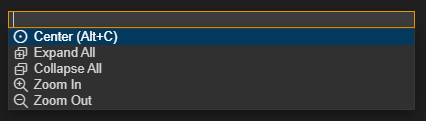
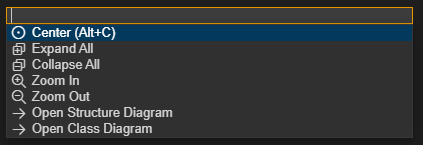
Doc updates for 0.0.6

diff --git a/docs-sources/building/transformation-configurations.md b/docs-sources/building/transformation-configurations.md
@@ -7,10 +7,12 @@ To create a new TC select a file in the workspace folder that contains the Art f
 
 ![](images/default-tc-name.png)
 
-A .tcjs file will be created with minimal contents. Specify the mandatory [targetFolder](#targetfolder) property and any other [properties](#properties) needed.
+A .tcjs file will be created with the minimal contents. Specify the mandatory [topCapsule](#topcapsule) property (if you are building an executable) and any other [properties](#properties) needed.
 
 ## Setting a Transformation Configuration as Active
-You can have more than one TC in your workspace, but at most one TC in each workspace folder can be **active**. Set a TC as active by right-clicking on it and perform the command **Set as Active**. An active TC is marked with a checkmark.
+You can have more than one TC in your workspace, and also multiple TCs in the same workspace folder, but at most one TC in each workspace folder can be **active**. {$product.name$} uses the active TC for knowing how to automatically generate C++ code from the Art files in the workspace folder.
+
+Set a TC as active by right-clicking on it and perform the command **Set as Active**. An active TC is marked with a checkmark.
 
 ![](images/active-tc.png)
 
@@ -35,7 +37,7 @@ You can edit a TC directly as a JavaScript file in the text editor. Features suc
 
 ![](images/tc-editor-validation.png)
 
-As an alternative to editing a TC as a JavaScript file {$product.name$} also provides a dedicated form-based editor which may be easier to use, especially until you are familiar with all TC properties that exist and what they mean.
+As an alternative to editing a TC as a JavaScript file {$product.name$} also provides a form-based editor which may be easier to use, especially until you are familiar with all TC properties that exist and what they mean.
 
 To open the form-based TC editor, right-click on a TC file and invoke the context menu command **Edit Properties (UI)**. 
 
@@ -53,7 +55,11 @@ Certain TC properties have default values. Such values are not stored in the TC 
 
 ![](images/tc-editor-default-value.png)
 
-You can freely choose if you want to edit TC files as text files or using the form-based TC editor, and you can even use both at the same time. The form-based TC editor is automatically updated when you save the TC file, and the TC file is automatically updated when a widget with a modified value loses focus. 
+You can tell which TC properties that have a custom (i.e. non-default) value set by looking at the color of the property name. Properties with custom values set have names shown in blue which are hyperlinks that will navigate to the value in the TC file. Such properties also have a "Delete" button which can be used for deleting the property value (i.e. to restore the property to use its default value).
+
+![](images/tc-with-value.png)
+
+You can freely choose if you want to edit TC files as text files or using the form-based TC editor, and you can even use both at the same time. The form-based TC editor is automatically updated as soon as you edit the TC file, and the TC file is automatically updated when a widget with a modified value loses focus. 
 
 ## Properties
 Below is an alphabetic list of all properties that can be used in a TC. Note that many TC properties have default values and you only need to specify a value for a TC property if its different from the default value.
@@ -71,7 +77,7 @@ Specifies which C++ compiler to use for compiling generated C++ code. The defaul
 This property may be used to insert a common comment block in the beginning of each generated file, typically a copyright text.
 
 ### cppCodeStandard
-Defines the C++ language standard to which generated code will conform. The default value for this property is `C++ 17`. Other valid values are `C++ 11`, `C++ 14` and `C++ 20`. If you need to compile generated code with a compiler that doesn't support C++ 11 you can set this preference to `Older than C++ 11`. However, you then cannot use the standard version of the TargetRTS since it uses C++ 11 constructs.
+Defines the C++ language standard to which generated code will conform. The default value for this property is `C++ 17`. Other valid values are `C++ 11`, `C++ 14` and `C++ 20`. If you need to compile generated code with a compiler that doesn't support C++ 11 you can set this preference to `Older than C++ 11`. However, you then cannot use the latest version of the TargetRTS since it uses C++ 11 constructs.
 
 ### linkArguments
 Specifies the arguments for the C++ linker used for linking object files and libraries into an executable. This property is only applicable for TCs that build executables.
@@ -92,14 +98,16 @@ Specifies which TargetRTS configuration to use. The TargetRTS location specified
 This property maps to a subfolder of the target folder where all generated files that are not source code will be placed. This includes for example makefiles and the files that are produced by these makefiles (typically binaries). The default value of this property is `default`.
 
 ### targetLocation
-When a TC is built all generated files (C++ code, make file, binaries etc) will be placed in a so called target folder. This property specifies the name of that folder. The target folder will be added as a workspace folder the first time the TC is built. You can choose any name that is a valid name of a folder, but it can be convenient to base the name on the workspace folder that contains the TC so that the target folder appears near it. For example, if the workspace folder that contains the TC is called "MyApp" you can use "MyApp_target" as the name of the target folder.
+When a TC is built all generated files (C++ code, make file, binaries etc) will be placed in a so called target folder. This property specifies the name and location of that folder. The target folder will be added as a workspace folder the first time the TC is built. You can choose any name that is a valid name of a folder, but it can be convenient to base the name on the workspace folder that contains the TC so that the target folder appears near it. For example, if the workspace folder that contains the TC is called "MyApp" you can use "MyApp_target" as the name of the target folder. In fact, if you don't specify a value for this property it will default to using the name of the TC and append "_target" to it.
 
-The path can be either absolute or relative. Relative paths are resolved against the folder that contains the TC. Use forward slashes as path separator.
-
-`targetLocation` is a mandatory TC property and it has no default value.
+The path can be either absolute or relative. Relative paths are resolved against the folder that contains the TC. Use forward slashes as path separator. 
 
 ### targetRTSLocation
-Specifies the location of the TargetRTS to use. The default value of this property is `${RSA_RT_HOME}/C++/TargetRTS` which points at the folder in the {$product.name$} installation where the TargetRTS C++ implementation resides.
+Specifies the location of the TargetRTS to use. If no value is set for this property the TargetRTS from the RTist in Code installation will be used. If you want to use another TargetRTS specify the full path to the `TargetRTS` folder (including that folder itself). Use forward slashes as path separator. For example:
+
+``` js
+tc.targetRTSLocation = "C:/git/rsarte-target-rts/rsa_rt/C++/TargetRTS";
+```
 
 ### topCapsule
 Specifies the capsule that should be automatically incarnated when the executable starts to run. Hence this property is only applicable for TCs that build executables, and for those TCs it's a mandatory property. The top capsule is the entry point of the realtime application.

diff --git a/docs-sources/working-with-art/diagrams.md b/docs-sources/working-with-art/diagrams.md
@@ -19,6 +19,8 @@ You can also open diagrams from the context menu of an Art file in the Explorer 
 
 The same prompting happens if you open a diagram from an Art file when the cursor position doesn't indicate which Art element to open the diagram for. All valid Art elements in the file will be listed and you can choose which one to open the diagram for.
 
+You can open multiple diagrams of the same kind in one go by selecting multiple Art files in the Explorer view, and then invoke a command for opening diagrams from the context menu. However, in this case only diagrams for the first element found in each file will be opened (i.e. in this case you will not be prompted in case a file contains multiple elements for which the selected kind of diagram could be opened).
+
 ## Navigating from Diagram to Art File
 If you double-click a symbol or a line in a diagram, the Art element that corresponds to that symbol or line will be highlighted in the Art file. Note that you need to double-click on the symbol or line itself, and not on a text label shown in the symbol or on the line. However, as an alternative you can instead hold down the ++ctrl++ key and then click on the text label. It will then become a hyperlink that navigates to the Art element that corresponds to that text label. You need to use this approach in case a symbol has multiple text labels each of which represent different Art elements. For example:
 
@@ -57,6 +59,8 @@ Many diagram commands mentioned above can be invoked using the keyboard. Press +
 
 ![](images/diagram-commands.png)
 
+In this pop-up menu you also find convenient commands for navigating to related diagrams. For example, from the state diagram of a capsule you can navigate to the structure and class diagrams of that same capsule.
+
 ### Diagram Appearance
 Certain properties on Art elements control how they will appear in a diagram. Currently it's possible to configure which color to use for elements of a state diagram. See the [color](../art-lang.md#color) property for more information.
 
@@ -92,3 +96,8 @@ You can rename an Art element shown in a diagram by double-clicking on the text 
 ![](images/diagram-rename.png)
 
 Note that this is a "rename refactoring" and all references to the renamed element will be updated too. 
+
+### Deleting Elements
+You can delete an Art element shown in a diagram by selecting the symbol or line that represents the element and then press the ++"Delete"++ key. Multiple symbols or lines can be selected in order to delete many Art elements in one go. Currently deleting elements is only supported from state diagrams.
+
+Note that elements are deleted by removing them from the Art file, which in turn will update the diagram. All content within the deleted element will be lost, including any comments. However, you can of course undo the deletion by pressing ++ctrl+"z"++ (**Undo**) in the Art text editor.
